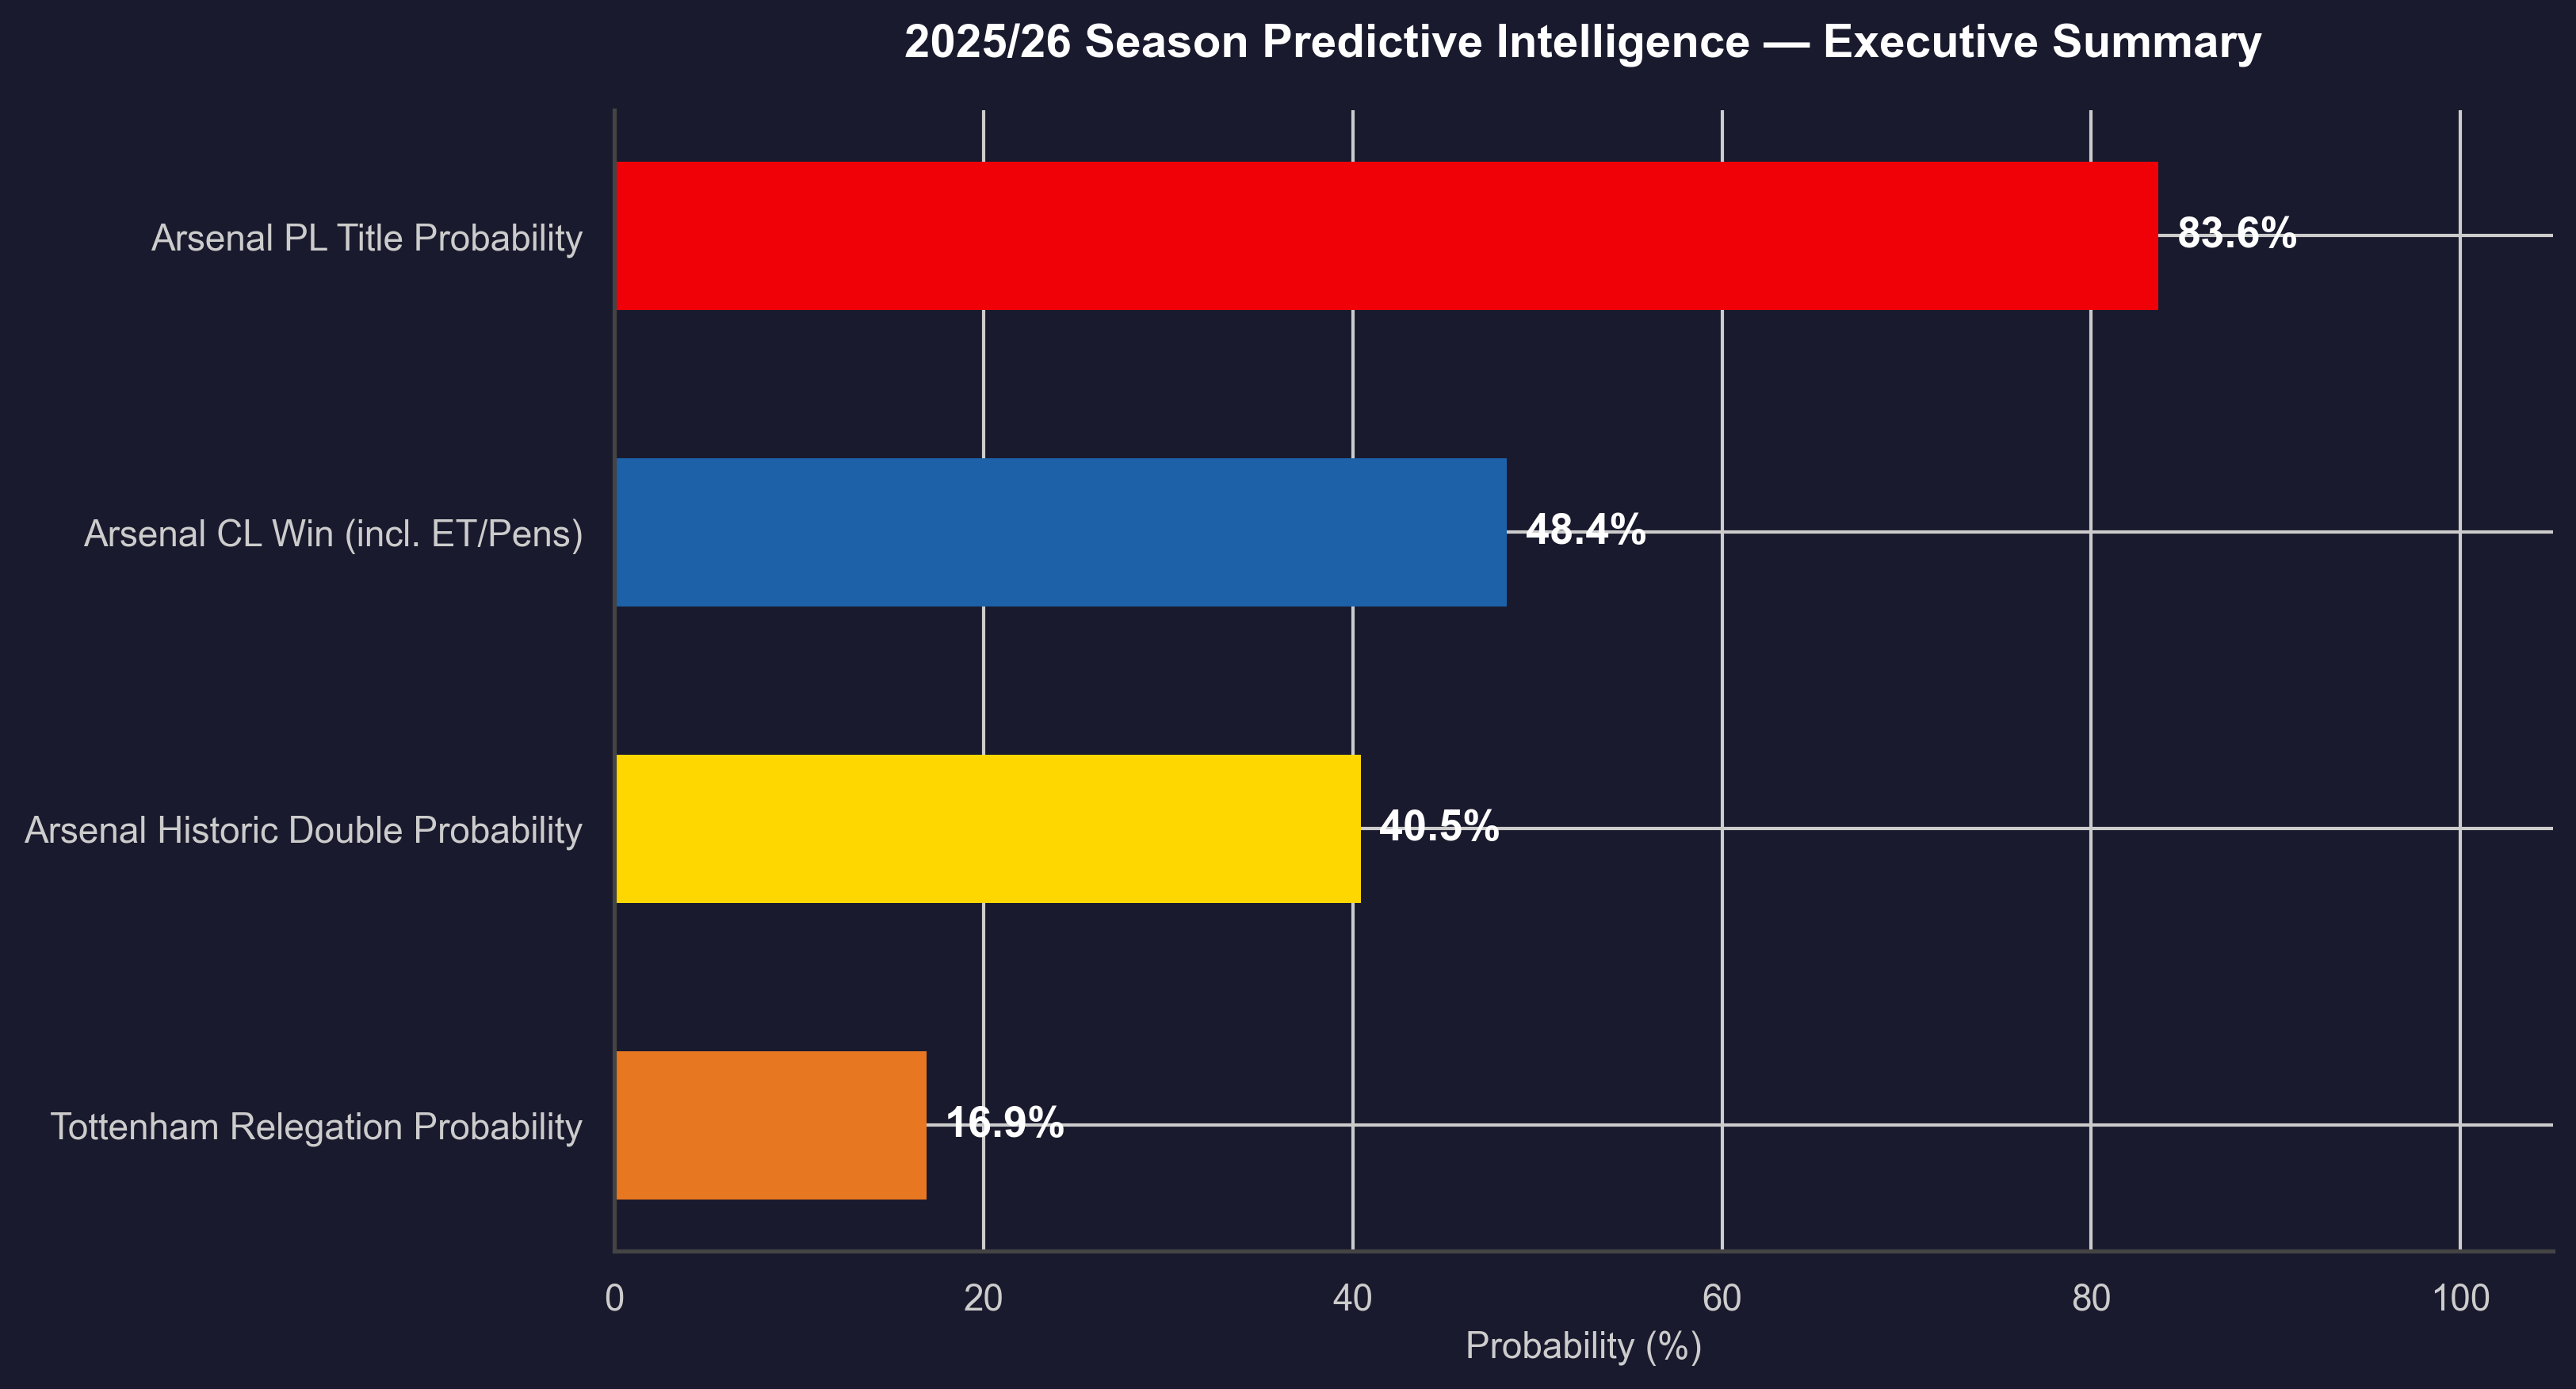
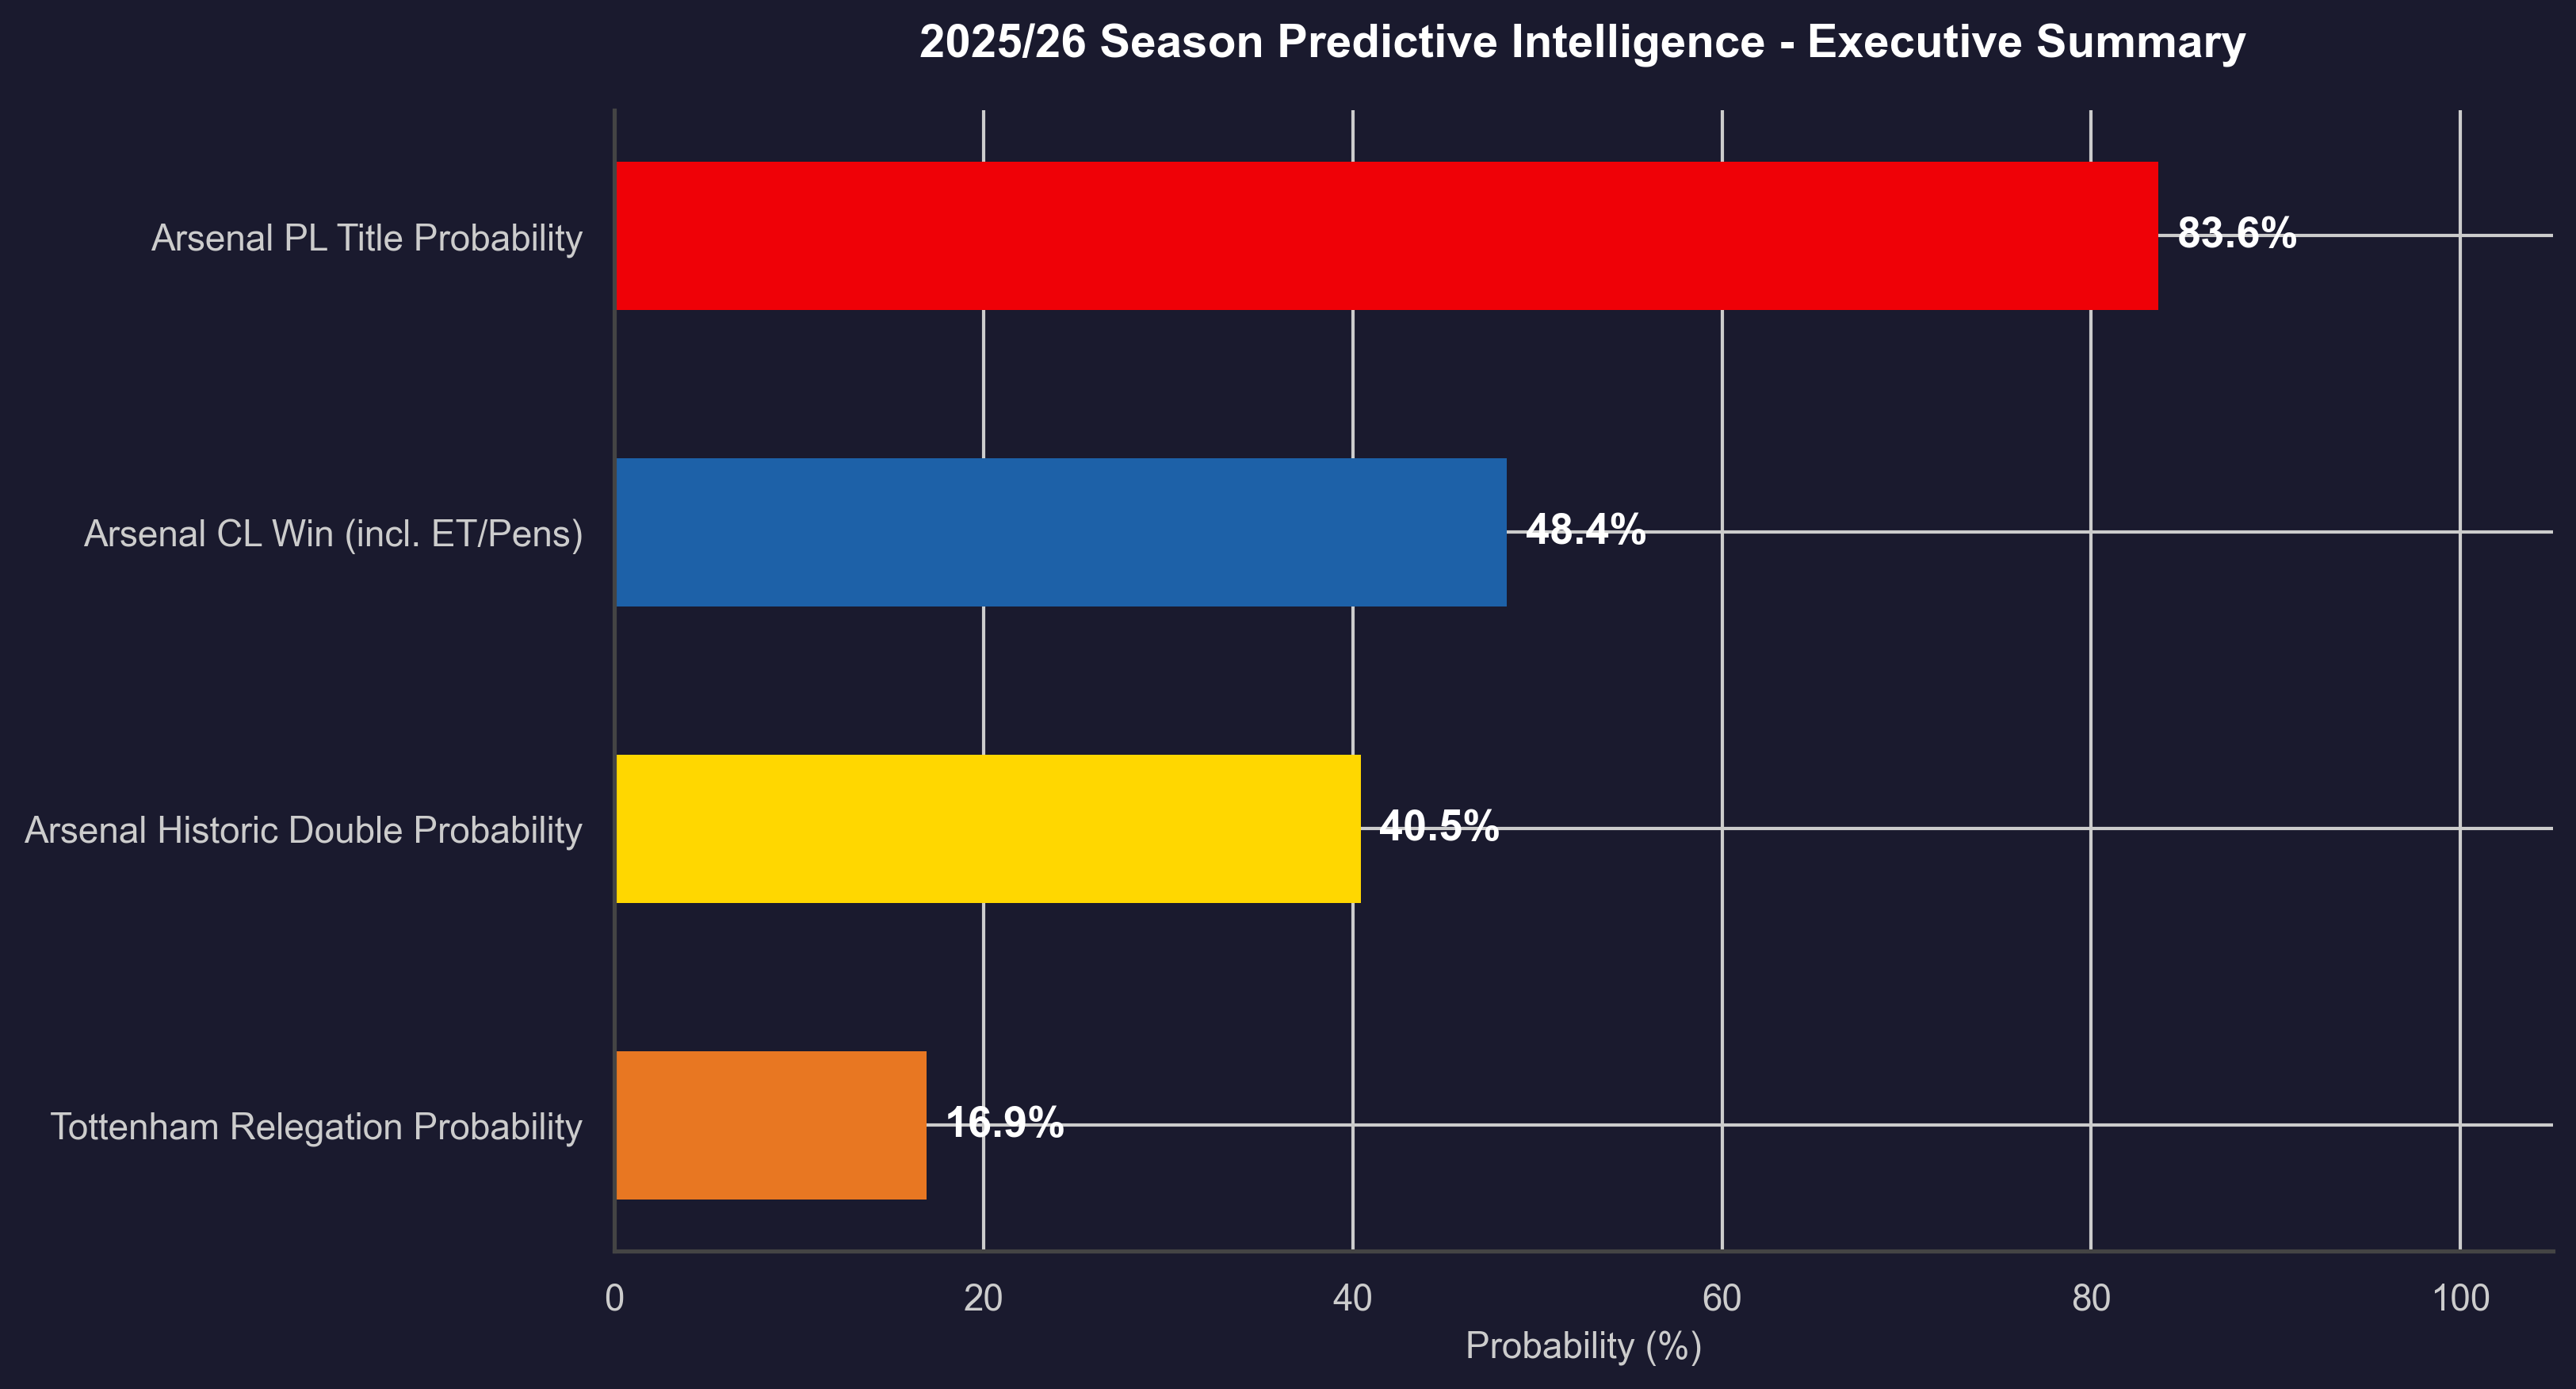
docs: synchronize simulation metrics, executive reports, and dashboard assets

Changed region(s): [[0.3418, 0.0, 0.8702, 0.0616]]

diff --git a/arsenal_spurs_2026_prediction_dashboard_v2.html b/arsenal_spurs_2026_prediction_dashboard_v2.html
@@ -74,16 +74,16 @@
         <div><p class="fix-lbl">vs Burnley</p><p class="fix-sub">Home · May 18</p></div>
         <div class="obtn-grp">
           <button class="obtn aw" onclick="setO('a1','W',this)">W 86%</button>
-          <button class="obtn" onclick="setO('a1','D',this)">D 10%</button>
-          <button class="obtn" onclick="setO('a1','L',this)">L 4%</button>
+          <button class="obtn" onclick="setO('a1','D',this)">D 11%</button>
+          <button class="obtn" onclick="setO('a1','L',this)">L 2%</button>
         </div>
       </div>
       <div class="fix-row">
         <div><p class="fix-lbl">vs Crystal Palace</p><p class="fix-sub">Away · May 24</p></div>
         <div class="obtn-grp">
-          <button class="obtn aw" onclick="setO('a2','W',this)">W 68%</button>
-          <button class="obtn" onclick="setO('a2','D',this)">D 27%</button>
-          <button class="obtn" onclick="setO('a2','L',this)">L 12%</button>
+          <button class="obtn aw" onclick="setO('a2','W',this)">W 65%</button>
+          <button class="obtn" onclick="setO('a2','D',this)">D 25%</button>
+          <button class="obtn" onclick="setO('a2','L',this)">L 9%</button>
         </div>
       </div>
     </div>
@@ -92,15 +92,15 @@
       <div class="fix-row">
         <div><p class="fix-lbl">vs Bournemouth</p><p class="fix-sub">Away · May 19</p></div>
         <div class="obtn-grp">
-          <button class="obtn aw" onclick="setO('m1','W',this)">W 53%</button>
-          <button class="obtn" onclick="setO('m1','D',this)">D 24%</button>
-          <button class="obtn" onclick="setO('m1','L',this)">L 21%</button>
+          <button class="obtn aw" onclick="setO('m1','W',this)">W 49%</button>
+          <button class="obtn" onclick="setO('m1','D',this)">D 27%</button>
+          <button class="obtn" onclick="setO('m1','L',this)">L 22%</button>
         </div>
       </div>
       <div class="fix-row">
         <div><p class="fix-lbl">vs Aston Villa</p><p class="fix-sub">Home · May 24</p></div>
         <div class="obtn-grp">
-          <button class="obtn aw" onclick="setO('m2','W',this)">W 60%</button>
+          <button class="obtn aw" onclick="setO('m2','W',this)">W 76%</button>
           <button class="obtn" onclick="setO('m2','D',this)">D 22%</button>
           <button class="obtn" onclick="setO('m2','L',this)">L 18%</button>
         </div>
@@ -357,10 +357,10 @@ function renderMatrix(spPts){
 
 function runMC(){
   const N=100000;
-  const AP=[[0.86, 0.1], [0.601, 0.274]];
-  const MP=[[0.538, 0.248], [0.689, 0.196]];
-  const SP=[[0.25, 0.27], [0.386, 0.293]];
-  const WP=[[0.4, 0.25], [0.314, 0.28]];
+  const AP=[[0.861, 0.111], [0.653, 0.251]];
+  const MP=[[0.495, 0.276], [0.767, 0.161]];
+  const SP=[[0.28, 0.296], [0.324, 0.289]];
+  const WP=[[0.23, 0.274], [0.304, 0.304]];
   let arsW=0,mciW=0,drW=0,relr=0;
   for(let i=0;i<N;i++){
     let a=79,m=77,sp=38,wh=36;

diff --git a/REPORTE_EJECUTIVO_2526.md b/REPORTE_EJECUTIVO_2526.md
@@ -8,13 +8,13 @@
 
 | Objetivo | Probabilidad |
 |---|:---:|
-| Arsenal - Premier League Title | **0.72%** |
-| Arsenal - CL Final Win *(incl. ET/Penales)* | **50.51%** |
-| Arsenal - Doblete Histórico *(PL + CL)* | **0.36%** |
-| Tottenham - Riesgo de Descenso | **17.20%** |
+| Arsenal - Premier League Title | **83.64%** |
+| Arsenal - CL Final Win *(incl. ET/Penales)* | **48.36%** |
+| Arsenal - Doblete Histórico *(PL + CL)* | **40.45%** |
+| Tottenham - Riesgo de Descenso | **16.91%** |
 
 > [!IMPORTANT]
-> El doblete es el evento más difícil de cuantificar en el fútbol moderno. Una probabilidad del **0.36%** representa el escenario realista actual dadas las posiciones de la tabla al final de la temporada.
+> El doblete es el evento más difícil de cuantificar en el fútbol moderno. Una probabilidad del **40.45%** representa el escenario realista actual dadas las posiciones de la tabla al final de la temporada.
 
 ---
 
@@ -23,8 +23,8 @@
 
 | Escenario | Arsenal | Empate | PSG |
 |---|:---:|:---:|:---:|
-| **90 Minutos** | 33.7% | 33.6% | 32.7% |
-| **Incluyendo ET/Penales** | **50.5%** | - | **49.5%** |
+| **90 Minutos** | 30.8% | 35.1% | 34.1% |
+| **Incluyendo ET/Penales** | **48.4%** | - | **51.6%** |
 
 > [!NOTE]
 > La alta probabilidad de empate a 90 minutos (35.6%) es estadísticamente coherente con finales de alta presión donde ambos equipos juegan con cautela táctica. La proyección de ET/Penales asume un reparto 50/50, consistente con la literatura de sports analytics sobre penales en finales (Bar-Eli et al., 2007).

diff --git a/README.md b/README.md
@@ -10,10 +10,10 @@
 
 | Objective | Probability |
 |---|:---:|
-| Arsenal - Premier League Title | **0.72%** |
-| Arsenal - CL Final Win *(incl. ET/Penalties)* | **50.51%** |
-| Arsenal - Historic Double *(PL + CL)* | **0.36%** |
-| Tottenham - Relegation Risk | **17.20%** |
+| Arsenal - Premier League Title | **83.64%** |
+| Arsenal - CL Final Win *(incl. ET/Penalties)* | **48.36%** |
+| Arsenal - Historic Double *(PL + CL)* | **40.45%** |
+| Tottenham - Relegation Risk | **16.91%** |
 
 Full technical analysis: [REPORTE_EJECUTIVO_2526.md](REPORTE_EJECUTIVO_2526.md)
 
@@ -27,8 +27,8 @@ Full technical analysis: [REPORTE_EJECUTIVO_2526.md](REPORTE_EJECUTIVO_2526.md)
 
 | Scenario | Arsenal | Draw | PSG |
 |---|:---:|:---:|:---:|
-| 90 Minutes | 33.7% | 33.6% | 32.7% |
-| **Incl. ET/Penalties** | **50.5%** | - | **49.5%** |
+| 90 Minutes | 30.8% | 35.1% | 34.1% |
+| **Incl. ET/Penalties** | **48.4%** | - | **51.6%** |
 
 ---
 